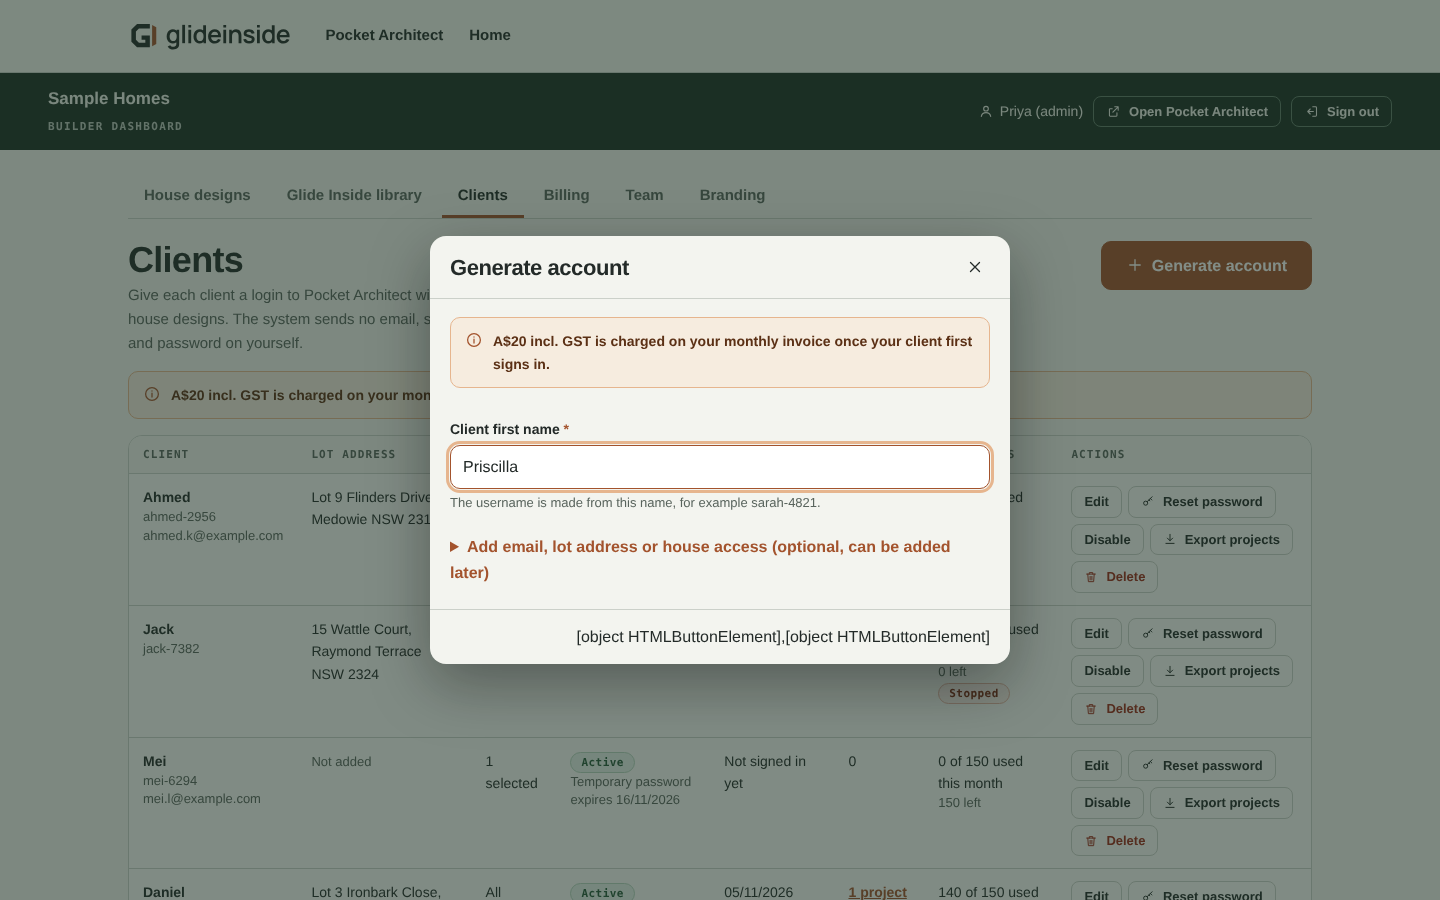
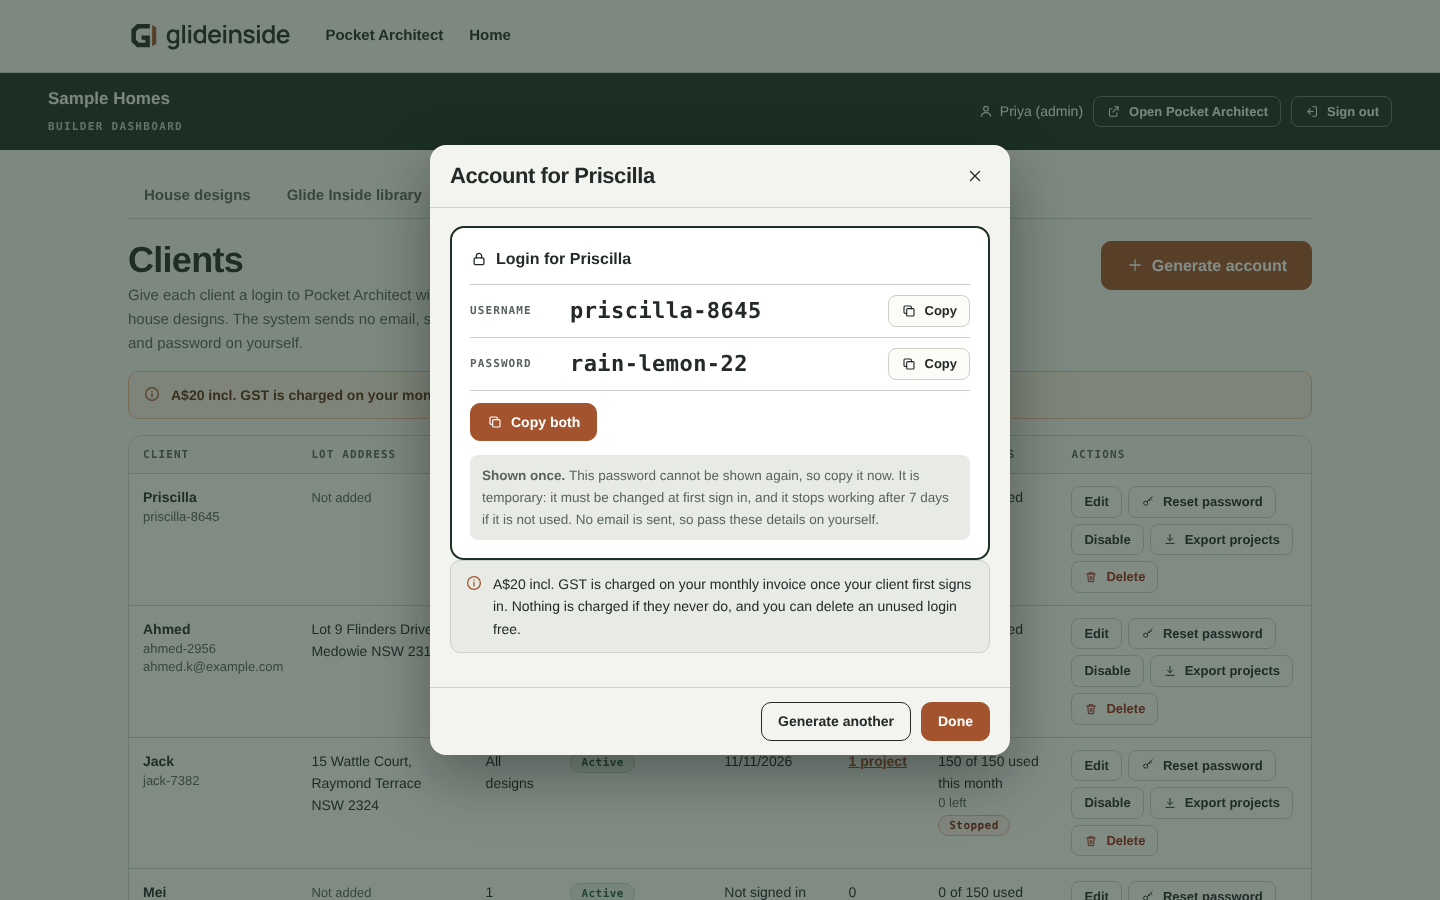
Final review fixes for accounts: dialog footers, enquiry input hardening, invoice wording, screenshots
- Portal dialogs printed '[object HTMLButtonElement],[object HTMLButtonElement]' where a footer was an array of buttons (tax invoice, confirm dialogs); body and footer now accept one node or an array
- Enquiry: line breaks and control characters are stripped from single line fields so they cannot reach the email subject; the attachment must start with the PDF signature
- Tax invoice line reads 'October 2026' in place of '2026-10'
- Screenshots re-captured; 07b now shows the credentials (it was a copy of 07a because the script pressed Enter)
- website-live/portal re-synced

Claude-Session: https://claude.ai/code/session_01AcQqUWYpmQcaYiwB8r1zsn

diff --git a/GlideInside/pocket-architect-source/server/lib/enquiry.js b/GlideInside/pocket-architect-source/server/lib/enquiry.js
@@ -10,8 +10,11 @@ export const NEEDS = ['engineering', 'da', 'both'];
 const NEED_TEXT = { engineering: 'Engineering', da: 'DA plans', both: 'Engineering and DA plans' };
 const REF_ALPHABET = 'ABCDEFGHJKLMNPQRSTUVWXYZ23456789'; // no 0, 1, I or O: easy to read out
 const randomRef = () => `GI-${Array.from(crypto.getRandomValues(new Uint8Array(5)), (b) => REF_ALPHABET[b % REF_ALPHABET.length]).join('')}`;
-const text = (v, name, { max = 200, required = false } = {}) => {
-  const s = typeof v === 'string' ? v.trim() : '';
+// Single line fields lose control characters and line breaks, so a name or project name cannot break the email subject or
+// the summary lines. Notes keep their line breaks.
+const text = (v, name, { max = 200, required = false, multiline = false } = {}) => {
+  const raw = typeof v === 'string' ? v : '';
+  const s = (multiline ? raw.replace(/[\u0000-\u0008\u000b\u000c\u000e-\u001f\u007f]/g, '') : raw.replace(/[\u0000-\u001f\u007f\u2028\u2029]+/g, ' ')).trim();
   if (required && !s) throw new HttpError('BAD_REQUEST', `${name} is required.`);
   if (s.length > max) throw new HttpError('BAD_REQUEST', `${name} is too long.`);
   return s;
@@ -44,9 +47,10 @@ export function parseEnquiry(body, { maxProjectBytes = 2_000_000, maxPdfBytes = 
     pdfBase64 = String(body.pdfBase64).replace(/^data:application\/pdf;base64,/, '');
     if (!/^[A-Za-z0-9+/]+={0,2}$/.test(pdfBase64)) throw new HttpError('BAD_REQUEST', 'The plan set is not valid.');
     if (Math.floor((pdfBase64.length * 3) / 4) > maxPdfBytes) throw new HttpError('PAYLOAD_TOO_LARGE', 'The plan set is too large to send.');
+    if (!pdfBase64.startsWith('JVBERi0')) throw new HttpError('BAD_REQUEST', 'The plan set is not a PDF.'); // "%PDF-"
   }
   return {
-    name, phone, email, need, notes: text(body.notes, 'Notes', { max: 4000 }), lot,
+    name, phone, email, need, notes: text(body.notes, 'Notes', { max: 4000, multiline: true }), lot,
     source: ['public', 'builder', 'client'].includes(body.source) ? body.source : 'public',
     orgName: text(body.orgName, 'Builder', { max: 120 }),
     projectName: text(project?.name || body.projectName, 'Project name', { max: 120 }),

diff --git a/GlideInside/pocket-architect-source/src/portal/mock-api.js b/GlideInside/pocket-architect-source/src/portal/mock-api.js
@@ -10,7 +10,7 @@ import { GLIDE_LIBRARY } from './glide-library.generated.js';
 import { houseStats } from './house-stats.js';
 import { projectToSvg } from './thumbnail.js';
 import { generateUsername, generatePassword, generateToken, passwordProblem } from './credentials.js';
-import { gstOfTotal } from './billing.js';
+import { gstOfTotal, monthLabel } from './billing.js';
 import { NEW_LOGIN_FEE_CENTS, TOPUP_FEE_CENTS, TOPUP_CREDITS, monthKey, previousMonthKey, monthStartMs, summariseMonth, loginsInMonth } from './billing.js';
 
 const DB_KEY = 'gi.portal.mock.v1';
@@ -595,7 +595,7 @@ export function createMockApi({ now = () => Date.now(), storage = browserStorage
       const usage = await api.monthUsage({ month: inv.month });
       const c = org.billingContact || {};
       const lines = [
-        { description: `New client logins first signed in during ${inv.month} (A$20 each, incl. GST)`, quantity: usage.totals.loginsCount, unitCents: NEW_LOGIN_FEE_CENTS, totalCents: usage.totals.loginsCents },
+        { description: `New client logins first signed in during ${monthLabel(inv.month)} (A$20 each, incl. GST)`, quantity: usage.totals.loginsCount, unitCents: NEW_LOGIN_FEE_CENTS, totalCents: usage.totals.loginsCents },
         { description: `AI credit top-ups of ${TOPUP_CREDITS} credits (A$10 each, incl. GST)`, quantity: usage.totals.topUpsCount, unitCents: TOPUP_FEE_CENTS, totalCents: usage.totals.topUpsCents },
       ].filter((l) => l.quantity > 0);
       const total = usage.totals.totalCents;

diff --git a/GlideInside/website-live/portal/src/portal/mock-api.js b/GlideInside/website-live/portal/src/portal/mock-api.js
@@ -10,7 +10,7 @@ import { GLIDE_LIBRARY } from './glide-library.generated.js';
 import { houseStats } from './house-stats.js';
 import { projectToSvg } from './thumbnail.js';
 import { generateUsername, generatePassword, generateToken, passwordProblem } from './credentials.js';
-import { gstOfTotal } from './billing.js';
+import { gstOfTotal, monthLabel } from './billing.js';
 import { NEW_LOGIN_FEE_CENTS, TOPUP_FEE_CENTS, TOPUP_CREDITS, monthKey, previousMonthKey, monthStartMs, summariseMonth, loginsInMonth } from './billing.js';
 
 const DB_KEY = 'gi.portal.mock.v1';
@@ -595,7 +595,7 @@ export function createMockApi({ now = () => Date.now(), storage = browserStorage
       const usage = await api.monthUsage({ month: inv.month });
       const c = org.billingContact || {};
       const lines = [
-        { description: `New client logins first signed in during ${inv.month} (A$20 each, incl. GST)`, quantity: usage.totals.loginsCount, unitCents: NEW_LOGIN_FEE_CENTS, totalCents: usage.totals.loginsCents },
+        { description: `New client logins first signed in during ${monthLabel(inv.month)} (A$20 each, incl. GST)`, quantity: usage.totals.loginsCount, unitCents: NEW_LOGIN_FEE_CENTS, totalCents: usage.totals.loginsCents },
         { description: `AI credit top-ups of ${TOPUP_CREDITS} credits (A$10 each, incl. GST)`, quantity: usage.totals.topUpsCount, unitCents: TOPUP_FEE_CENTS, totalCents: usage.totals.topUpsCents },
       ].filter((l) => l.quantity > 0);
       const total = usage.totals.totalCents;

diff --git a/GlideInside/pocket-architect-source/src/portal/ui/kit.js b/GlideInside/pocket-architect-source/src/portal/ui/kit.js
@@ -102,8 +102,9 @@ export function openDialog({ title, body, footer, size = 'md', dismissible = tru
     close,
     el: dialog,
     setTitle: (t) => { titleEl.textContent = t; },
-    setBody(node) { clear(bodyEl); bodyEl.append(typeof node === 'function' ? node(api) : node); },
-    setFooter(node) { clear(footEl); const n = typeof node === 'function' ? node(api) : node; footEl.hidden = !n; if (n) footEl.append(n); },
+    // A body or footer may be one node or an array of nodes (append(array) would print "[object HTMLButtonElement]").
+    setBody(node) { clear(bodyEl); bodyEl.append(...[].concat(typeof node === 'function' ? node(api) : node).filter((x) => x != null && x !== false)); },
+    setFooter(node) { clear(footEl); const n = [].concat(typeof node === 'function' ? node(api) : node).filter((x) => x != null && x !== false); footEl.hidden = !n.length; footEl.append(...n); },
   };
   api.setBody(body);
   api.setFooter(footer || null);

diff --git a/GlideInside/website-live/portal/src/portal/ui/kit.js b/GlideInside/website-live/portal/src/portal/ui/kit.js
@@ -102,8 +102,9 @@ export function openDialog({ title, body, footer, size = 'md', dismissible = tru
     close,
     el: dialog,
     setTitle: (t) => { titleEl.textContent = t; },
-    setBody(node) { clear(bodyEl); bodyEl.append(typeof node === 'function' ? node(api) : node); },
-    setFooter(node) { clear(footEl); const n = typeof node === 'function' ? node(api) : node; footEl.hidden = !n; if (n) footEl.append(n); },
+    // A body or footer may be one node or an array of nodes (append(array) would print "[object HTMLButtonElement]").
+    setBody(node) { clear(bodyEl); bodyEl.append(...[].concat(typeof node === 'function' ? node(api) : node).filter((x) => x != null && x !== false)); },
+    setFooter(node) { clear(footEl); const n = [].concat(typeof node === 'function' ? node(api) : node).filter((x) => x != null && x !== false); footEl.hidden = !n.length; footEl.append(...n); },
   };
   api.setBody(body);
   api.setFooter(footer || null);

diff --git a/GlideInside/pocket-architect-source/docs/PORTAL_API.md b/GlideInside/pocket-architect-source/docs/PORTAL_API.md
@@ -112,7 +112,7 @@ Paths are under `{apiBase}` (default `/api`). "Staff" means admin or designer.
   "issuedAt": "2026-11-01T...", "dueAt": "2026-11-15T...", "month": "2026-10",
   "seller": { "name": "Glide Inside", "abn": "11 549 431 925" },
   "buyer": { "name": "<billing legalName>", "abn": "<billing ABN>", "email": "..." },
-  "lines": [ { "description": "New client logins first signed in during 2026-10 (A$20 each, incl. GST)", "quantity": 3, "unitCents": 2000, "totalCents": 6000 },
+  "lines": [ { "description": "New client logins first signed in during October 2026 (A$20 each, incl. GST)", "quantity": 3, "unitCents": 2000, "totalCents": 6000 },
              { "description": "AI credit top-ups of 300 credits (A$10 each, incl. GST)", "quantity": 1, "unitCents": 1000, "totalCents": 1000 } ],
   "subtotalExGstCents": 6364, "gstCents": 636, "totalInclGstCents": 7000,
   "status": "due"
